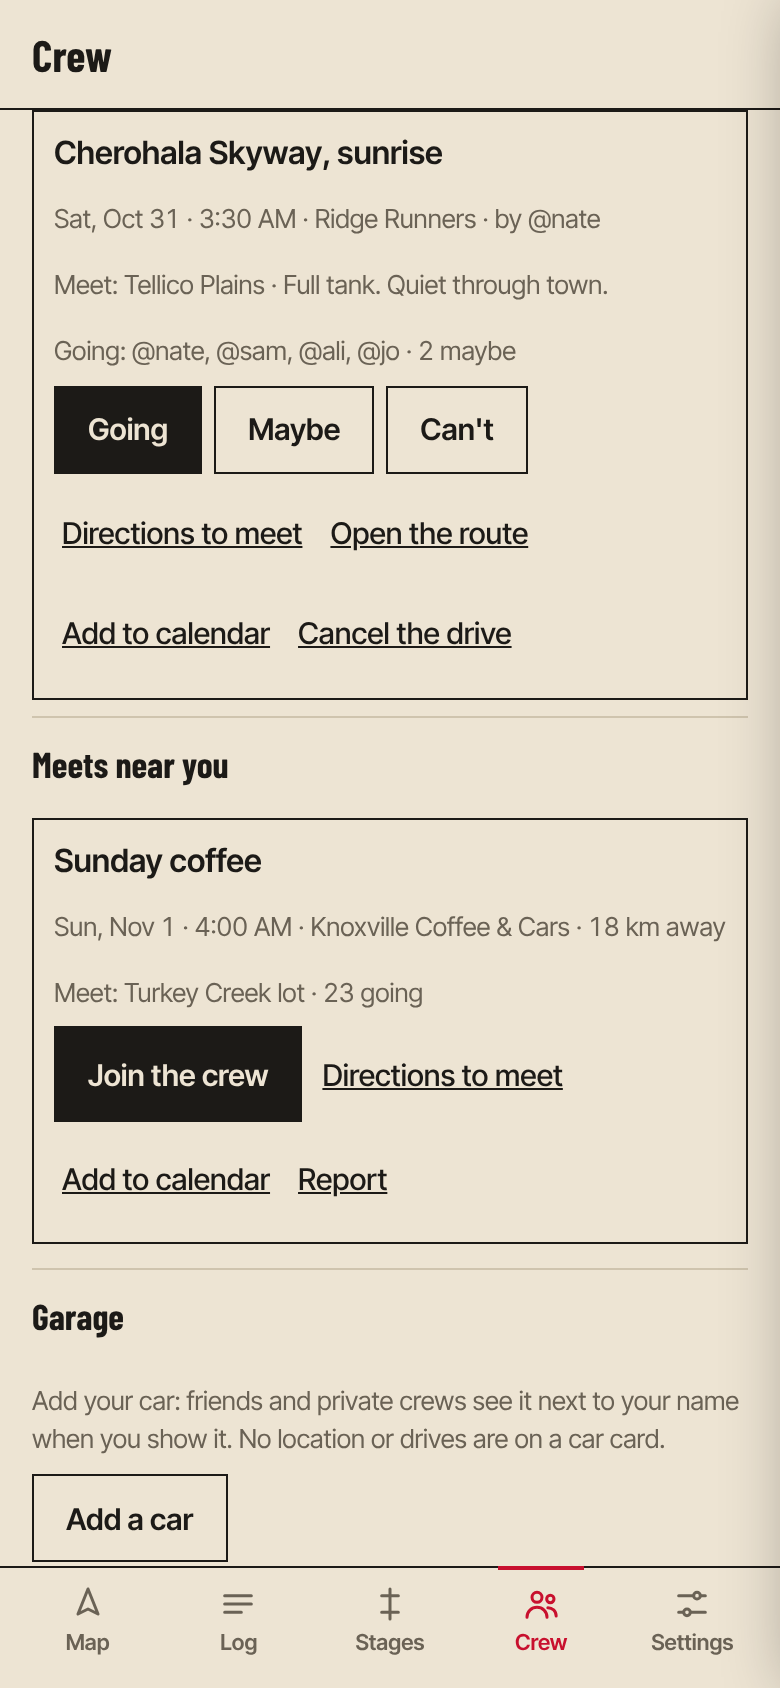
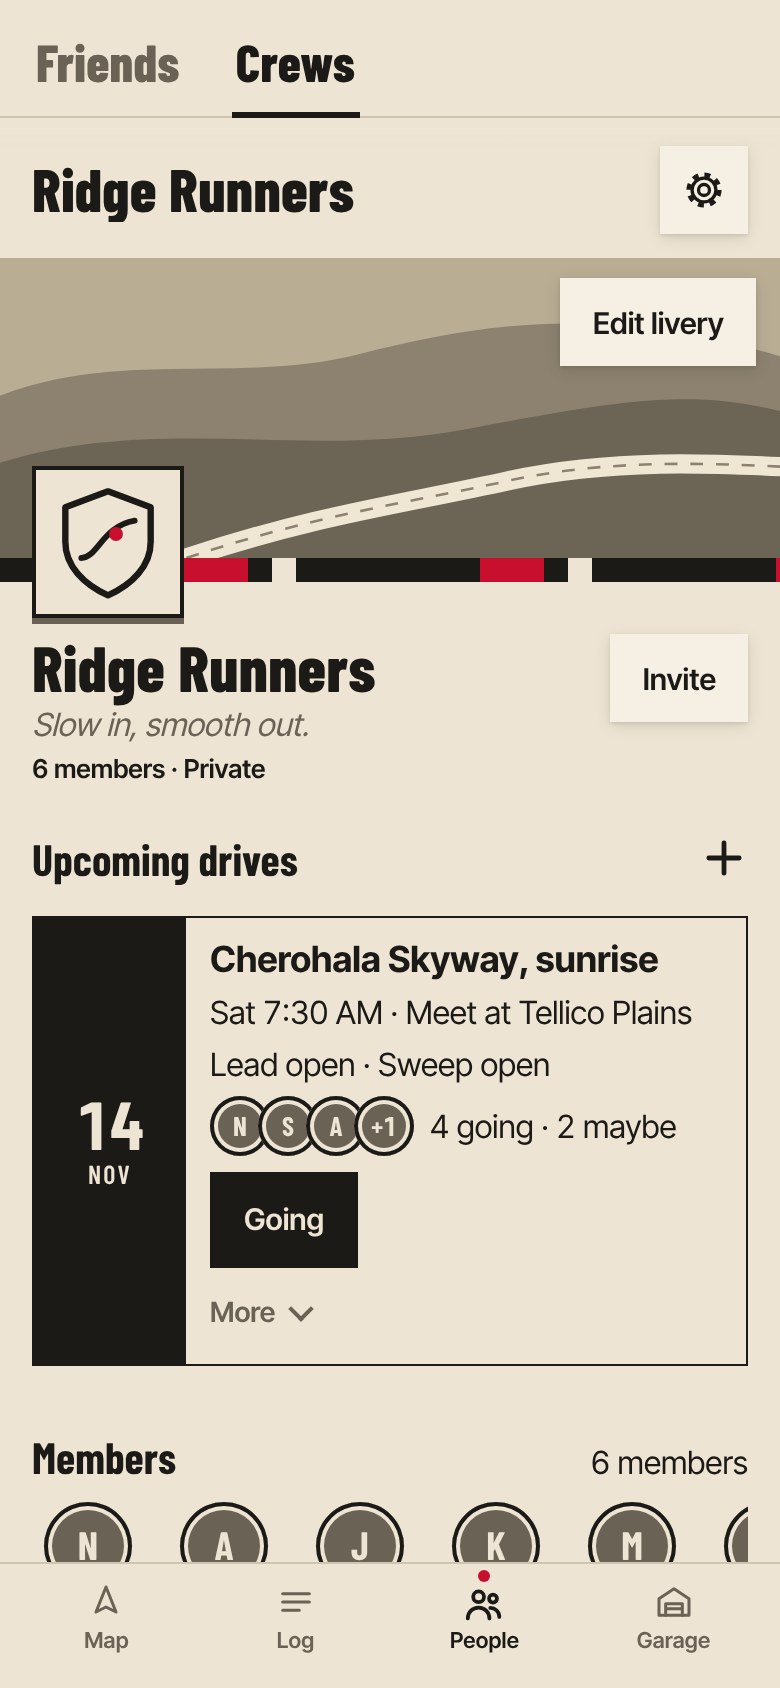
Website page in the Vetta Line, with fresh screenshots of today's app
Claude-Session: https://claude.ai/code/session_01AssWhGR8bfQrxBULAQiBjC

diff --git a/tools/landing_shots.js b/tools/landing_shots.js
@@ -1,9 +1,10 @@
 // Screenshots for the landing page (web/about.html, IDEAS O-08): the real cockpit at phone size, from the bundled replay,
 // with live map tiles. Run: node tools/landing_shots.js  (writes web/brand/shots/*.png). Not part of CI (needs the network).
+process.env.TZ = 'America/New_York';   // the example crew's drive is at 7:30 in the morning there, as the page shows it
 const { chromium } = require('playwright');
 const http = require('http'), fs = require('fs'), path = require('path');
-const WEB = path.join(__dirname, '..', 'web'), OUT = path.join(WEB, 'brand', 'shots');
-const TYPES = { '.html': 'text/html', '.js': 'text/javascript', '.css': 'text/css', '.json': 'application/json', '.svg': 'image/svg+xml', '.png': 'image/png', '.m4a': 'audio/mp4' };
+const WEB = path.join(__dirname, '..', 'web'), OUT = process.env.SHOTS_OUT || path.join(WEB, 'brand', 'shots');
+const TYPES = { '.html': 'text/html', '.js': 'text/javascript', '.css': 'text/css', '.json': 'application/json', '.svg': 'image/svg+xml', '.png': 'image/png', '.m4a': 'audio/mp4', '.woff2': 'font/woff2', '.wasm': 'application/wasm' };
 const server = http.createServer((q, r) => {
   let p = path.join(WEB, decodeURIComponent(q.url.split('?')[0]));
   if (fs.existsSync(p) && fs.statSync(p).isDirectory()) p = path.join(p, 'index.html');
@@ -13,37 +14,47 @@ const server = http.createServer((q, r) => {
   const base = `http://127.0.0.1:${server.address().port}`;
   const browser = await chromium.launch();
   const ctx = await browser.newContext({ viewport: { width: 390, height: 844 }, deviceScaleFactor: 2, timezoneId: 'America/New_York' });
-  await ctx.addInitScript(() => { try { localStorage.setItem('apex.onboarded', '1'); localStorage.setItem('apex.newsSeen', 'x'); localStorage.setItem('apex.prefs', JSON.stringify({ notesMode: 'full' })); } catch (_) {} });
+  // past the welcome, the permissions note and What's new (its current id, or it covers the page)
+  const news = require(path.join(WEB, 'whats_new.js')).NEWS.id;
+  await ctx.addInitScript((news) => { try { localStorage.setItem('apex.onboarded', '1'); localStorage.setItem('apex.permsExplained', '1'); localStorage.setItem('apex.newsSeen', news);
+    localStorage.setItem('apex.prefs', JSON.stringify({ notesMode: 'full' })); } catch (_) {} }, news);
   await ctx.route('**/api/**', (r) => r.fulfill({ status: 401, contentType: 'application/json', body: '{}' }));
   const page = await ctx.newPage();
   try {
     // 1. the cockpit on the twisty part of the bundled Dry Ridge replay
-    await page.goto(`${base}/index.html?drive=dry_ridge&play=1`);
-    await page.waitForFunction(() => window.apexDebug && window.apexDebug.track && window.apexDebug.track.events.length);
+    // by day (the page is paper), whatever the hour the tool runs at; the boot cover gone first
+    await page.goto(`${base}/index.html?drive=dry_ridge&play=1&night=0`);
+    await page.waitForFunction(() => window.apexDebug && window.apexDebug.track && window.apexDebug.track.events.length && !document.getElementById('boot'), null, { timeout: 30000 });
     await page.evaluate((f) => { const st = window.apexDebug.state, t = window.apexDebug.track; st.cursorM = t.dist[t.dist.length - 1] * f; }, Number(process.env.SHOT_AT || 0.45));
-    await page.waitForTimeout(1500);
+    await page.waitForTimeout(4000);   // the call's arrival (the pen) finished, not caught half drawn
     await page.evaluate(() => { const t = document.getElementById('toast'); if (t) t.style.visibility = 'hidden'; });   // service notices aren't the product
     await page.screenshot({ path: path.join(OUT, 'cockpit.png') });
     console.log('cockpit.png');
-    // 2. crew drives (an example crew, the Worker stubbed)
-    // a Saturday sunrise and a Sunday morning, a few days out
+    // 2. a crew's page (an example crew, the Worker stubbed): its livery, the next drive with who is going, members, chat
     const day = (n, h, m) => { const d = new Date(); d.setDate(d.getDate() + ((n - d.getDay() + 7) % 7 || 7)); d.setHours(h, m, 0, 0); return d.toISOString(); };
-    const starts = day(6, 7, 30);
+    const next = { id: 'E1AAAAAAAAAAAAAA', crew_id: 'k1', crew_name: 'Ridge Runners', title: 'Cherohala Skyway, sunrise', starts_at: day(6, 7, 30),
+      meet_name: 'Tellico Plains', meet_lat: 35.36, meet_lon: -84.29, notes: 'Full tank. Quiet through town.', by_handle: 'nate', mine: true, can_cancel: true,
+      my_rsvp: 'going', going: ['nate', 'sam', 'ali', 'jo'], maybe: 2 };
     await ctx.unroute('**/api/**');
     await ctx.route('**/api/**', (r) => {
       const u = new URL(r.request().url()), json = (b) => r.fulfill({ status: 200, contentType: 'application/json', body: JSON.stringify(b) });
       if (u.pathname === '/api/me') return json({ signed_in: true, member: true, handle: 'nate' });
-      if (u.pathname === '/api/crews') return json([{ id: 'C1', name: 'Ridge Runners', role: 'owner', members: 6, visibility: 'public' }]);
-      if (u.pathname === '/api/events') return json([{ id: 'E1AAAAAAAAAAAAAA', crew_id: 'C1', crew_name: 'Ridge Runners', title: 'Cherohala Skyway, sunrise', starts_at: starts,
-        meet_name: 'Tellico Plains', meet_lat: 35.36, meet_lon: -84.29, route_id: 'R1', notes: 'Full tank. Quiet through town.', by_handle: 'nate', mine: true, can_cancel: true, my_rsvp: 'going', going: ['nate', 'sam', 'ali', 'jo'], maybe: 2, public: true }]);
-      if (u.pathname === '/api/events/near') return json([{ id: 'M1AAAAAAAAAAAAAA', crew_id: 'C2', crew_name: 'Knoxville Coffee & Cars', title: 'Sunday coffee', starts_at: day(0, 9, 0),
-        meet_name: 'Turkey Creek lot', meet_lat: 35.88, meet_lon: -84.15, notes: null, going: 23, member: false, km: 18 }]);
+      if (u.pathname === '/api/crews') return json([{ id: 'k1', name: 'Ridge Runners', role: 'owner', visibility: 'private', members: 6 }]);
+      if (u.pathname === '/api/crews/k1/page') return json({ id: 'k1', name: 'Ridge Runners', motto: 'Slow in, smooth out.', visibility: 'private', area_name: null, members: 6,
+        is_owner: true, crest: null, crest_photo_id: null, stripe: null, cover_photo_id: null, livery: 'plain', sharing_scores: true, next, board: [] });
+      if (u.pathname === '/api/crews/k1/members') return json(['nate', 'sam', 'ali', 'jo', 'mel', 'kit'].map((h, i) => ({ handle: h, role: i ? 'member' : 'owner', mine: !i, photo_id: null })));
+      if (u.pathname === '/api/events') return json([next]);
+      if (u.pathname === '/api/crews/k1/chat') return json([{ id: 'm1', handle: 'sam', body: 'Fuel at the Shell in Tellico, then up the hill.', mine: false, at: new Date().toISOString() }]);
       return json([]);
     });
-    await page.goto(`${base}/index.html?view=crew`);
+    await page.goto(`${base}/index.html?view=people&night=0`);
+    await page.waitForFunction(() => !document.getElementById('boot'), null, { timeout: 30000 });
+    await page.evaluate(() => document.querySelector('[data-people="crews"]').click());
+    // one crew opens on its page; with more, the list comes first
+    await page.waitForSelector('.drive-card, .cd-open');
+    await page.evaluate(() => { const k = document.querySelector('.cd-open'); if (k && !document.querySelector('.drive-card')) k.click(); });
     await page.waitForSelector('.drive-card');
-    await page.evaluate(() => document.querySelector('.drive-card').scrollIntoView({ block: 'start' }));
-    await page.waitForTimeout(800);
+    await page.waitForTimeout(1200);
     await page.screenshot({ path: path.join(OUT, 'crew.png') });
     console.log('crew.png');
   } finally { await browser.close(); server.close(); }

diff --git a/web/about.html b/web/about.html
@@ -8,8 +8,14 @@
   <meta name="description" content="Vetta reads the road ahead out loud, finds the twisty roads near you and scores how smoothly you drove them: how well you used each corner's grip, never your top speed." />
   <link rel="icon" href="brand/mark.svg" type="image/svg+xml" />
   <link rel="apple-touch-icon" href="brand/icon-180.png" />
+  <!-- the app's faces (fonts.css is `optional`, so preloaded: here for the first frame, never a swap mid-read) -->
+  <link rel="preload" href="fonts/inter-tight.woff2" as="font" type="font/woff2" crossorigin />
+  <link rel="preload" href="fonts/barlow-condensed-800.woff2" as="font" type="font/woff2" crossorigin />
+  <link rel="stylesheet" href="fonts/fonts.css" />
   <style>
-    :root { --paper: #ece3d3; --ink: #1b1914; --dim: #5f594d; --red: #c8102e; --rule: #cfc4b0; }
+    /* Vetta Line (docs/design/SIGNATURE.md): paper, hairlines and a soft lift, titles in the numeral face, one red thing */
+    :root { --paper: #ece3d3; --ink: #1b1914; --dim: #5f594d; --red: #c8102e; --rule: #cfc4b0; --hair: rgba(27, 25, 20, 0.16);
+      --num: "Barlow Condensed", "Arial Narrow", system-ui, sans-serif; --lift: 0 1px 2px rgba(20, 16, 8, 0.10), 0 12px 32px rgba(20, 16, 8, 0.16); }
     * { box-sizing: border-box; }
     body { margin: 0; background: var(--paper); color: var(--ink); font: 17px/1.5 "Inter Tight", system-ui, -apple-system, sans-serif; }
     main { max-width: 980px; margin: 0 auto; padding: calc(32px + env(safe-area-inset-top, 0px)) calc(16px + env(safe-area-inset-right, 0px)) calc(64px + env(safe-area-inset-bottom, 0px)) calc(16px + env(safe-area-inset-left, 0px)); }
@@ -17,25 +23,25 @@
     body::before { content: ""; position: fixed; z-index: 100; left: 0; right: 0; top: 0; height: env(safe-area-inset-top, 0px); background: var(--paper); }
     header { display: flex; align-items: center; gap: 12px; }
     header img { width: 44px; height: 44px; }
-    header b { font-size: 22px; letter-spacing: 0.02em; }
-    h1 { font-size: clamp(34px, 7vw, 58px); line-height: 1.05; margin: 36px 0 12px; }
+    header b { font: 800 26px/1 var(--num); letter-spacing: 0.04em; text-transform: uppercase; }
+    h1 { font: 800 clamp(44px, 9vw, 76px)/0.98 var(--num); letter-spacing: 0.005em; margin: 40px 0 16px; max-width: 12em; }
     h1 em { font-style: normal; color: var(--red); }
     .lead { font-size: 20px; color: var(--dim); max-width: 640px; margin: 0 0 28px; }
     .cta { display: flex; flex-wrap: wrap; gap: 12px; align-items: center; margin-bottom: 40px; }
-    .btn { display: inline-block; background: var(--ink); color: var(--paper); text-decoration: none; padding: 14px 20px; font-weight: 700; }
-    .btn.ghost { background: transparent; color: var(--ink); border: 2px solid var(--ink); }
+    .btn { display: inline-flex; align-items: center; min-height: 52px; background: var(--ink); color: var(--paper); text-decoration: none; padding: 0 22px; font-weight: 700; }
+    .btn.ghost { background: color-mix(in srgb, var(--ink) 6%, var(--paper)); color: var(--ink); }
     .note { color: var(--dim); font-size: 15px; }
-    .shots { display: grid; grid-template-columns: repeat(auto-fit, minmax(240px, 1fr)); gap: 20px; margin: 8px 0 48px; }
+    .shots { display: grid; grid-template-columns: repeat(auto-fit, minmax(240px, 1fr)); gap: 28px; margin: 8px 0 48px; }
     .shots figure { margin: 0; }
-    .shots img { width: 100%; height: auto; border: 2px solid var(--ink); display: block; }
-    .shots figcaption { font-size: 14px; color: var(--dim); margin-top: 6px; }
-    h2 { font-size: 26px; margin: 40px 0 14px; border-top: 2px solid var(--ink); padding-top: 18px; }
+    .shots img { width: 100%; height: auto; display: block; border-radius: 18px; box-shadow: var(--lift); }
+    .shots figcaption { font-size: 15px; color: var(--dim); margin-top: 12px; }
+    h2 { font: 800 34px/1.05 var(--num); margin: 48px 0 16px; border-top: 1px solid var(--hair); padding-top: 22px; }
     .promises { display: grid; grid-template-columns: repeat(auto-fit, minmax(210px, 1fr)); gap: 16px; }
-    .promises div { border-left: 6px solid var(--red); padding: 4px 0 4px 14px; }
-    .promises b { display: block; font-size: 18px; }
+    .promises div { padding: 14px 0 0; border-top: 1px solid var(--hair); }
+    .promises b { display: block; margin-bottom: 4px; font: 700 22px/1.1 var(--num); letter-spacing: 0.01em; }
     ul.features { padding-left: 20px; }
     ul.features li { margin: 6px 0; }
-    footer { margin-top: 56px; border-top: 1px solid var(--rule); padding-top: 16px; font-size: 14px; color: var(--dim); display: flex; flex-wrap: wrap; gap: 14px; }
+    footer { margin-top: 56px; border-top: 1px solid var(--hair); padding-top: 16px; font-size: 15px; color: var(--dim); display: flex; flex-wrap: wrap; gap: 14px; }
     footer a { color: var(--ink); }
   </style>
 </head>
@@ -52,10 +58,10 @@
   </div>
 
   <div class="shots">
-    <figure><img src="brand/shots/cockpit.png" alt="The cockpit on a back road: the next note, Left 4 opens, called 500 feet ahead, with a crest and a dip marked on the map" width="390" height="844" loading="lazy" />
+    <figure><img src="brand/shots/cockpit.png" alt="The cockpit on a back road: the next note, Left 4 opens over a crest, called 400 feet ahead, with crests and a dip marked on the map" width="390" height="844" loading="lazy" />
       <figcaption>Notes called before the corner, crests and dips on the map. The bundled Dry Ridge Road replay.</figcaption></figure>
-    <figure><img src="brand/shots/crew.png" alt="Crew drives: a planned sunrise drive with who is going, and a coffee meet nearby" width="390" height="844" loading="lazy" />
-      <figcaption>Plan a drive with your crew, find meets nearby. An example crew.</figcaption></figure>
+    <figure><img src="brand/shots/crew.png" alt="A crew's page: its livery, the next drive, a sunrise run with four going, and its members" width="390" height="844" loading="lazy" />
+      <figcaption>Your crew's own page: plan a drive and see who's going. An example crew.</figcaption></figure>
   </div>
 
   <h2>Four promises</h2>

diff --git a/docs/STATE.md b/docs/STATE.md
@@ -1,5 +1,20 @@
 # VETTA — CURRENT AGENT HANDOFF STATE
 
+## Session 2026-11-12 (ui-round-three, PR 4): the website's page in the Line, with today's app on it (claude/project-thread-5sbga7)
+
+- web/about.html: the app's faces loaded (fonts.css, preloaded; it named Inter Tight without loading it), the title and
+  headings in the numeral face, hairlines for the 2 px ink rules, the screenshots as phones on a soft lift, the promises
+  on hairlines instead of red bars (the title's red is the one red thing), 52 px keys. Copy unchanged but the two shots'
+  alt text and one caption.
+- tools/landing_shots.js fixed (it caught the boot cover and waited for a Crew view that is gone): What's new's real id,
+  permsExplained, `night=0`, the boot cover gone, 4 s for the call to land, TZ New York, and the second shot is now a
+  crew's page (stubbed) instead of the old Crew drives list. SHOTS_OUT writes elsewhere. web/brand/shots/*.png re-made.
+- Copy left for the owner (flagged to the coordinator): "Four promises" still says "Yours until you share it / Drives stay
+  on your phone" and "No public races / no public time leaderboards", which may not match 2026-11-11's sharing defaults
+  and the weekly time attack.
+- CarPlay visuals: not changed (native MapLibre is primary; only CI builds it, so a redesign can't be seen here).
+- Next ideas: the copy above once the owner rules; privacy.html and terms.html in the same Line (type only).
+
 ## Session 2026-11-12 (ui-round-three, PR 3): the arrival-time link page in the Vetta Line (claude/project-thread-5sbga7)
 
 - web/eta.html (the page a friend opens from "Share ETA"): the app's faces (fonts.css, preloaded), the minutes as one big

diff --git a/docs/CALL_SHEET.md b/docs/CALL_SHEET.md
@@ -4,6 +4,13 @@ Decisions Claude made for you, newest first. Each one says what was decided, why
 you reach one you've seen. If you disagree with a call, say so and it gets reversed; nothing here is hard to undo unless
 it says so. Things only you can do are in docs/OWNER_TODO.md.
 
+## 2026-11-12 (ui-round-three): the website's page uses the app's look and shows today's app (claude/project-thread-5sbga7)
+
+about.html showed screenshots of the app from before the redesign (the old tab bar, boxed keys) and set its type in the
+system face. It now loads the app's typefaces, sets its titles like the app, and shows two fresh screenshots: the Dry Ridge
+replay and an example crew's page. The words are the same, except the screenshots' descriptions. Undo: revert
+web/about.html, web/brand/shots/*.png and tools/landing_shots.js.
+
 ## 2026-11-12 (ui-round-three): the arrival-time page your friends open looks like Vetta (claude/project-thread-5sbga7)
 
 The page behind a shared ETA link was plain system text. It now uses the app's type and paper: the minutes set large
